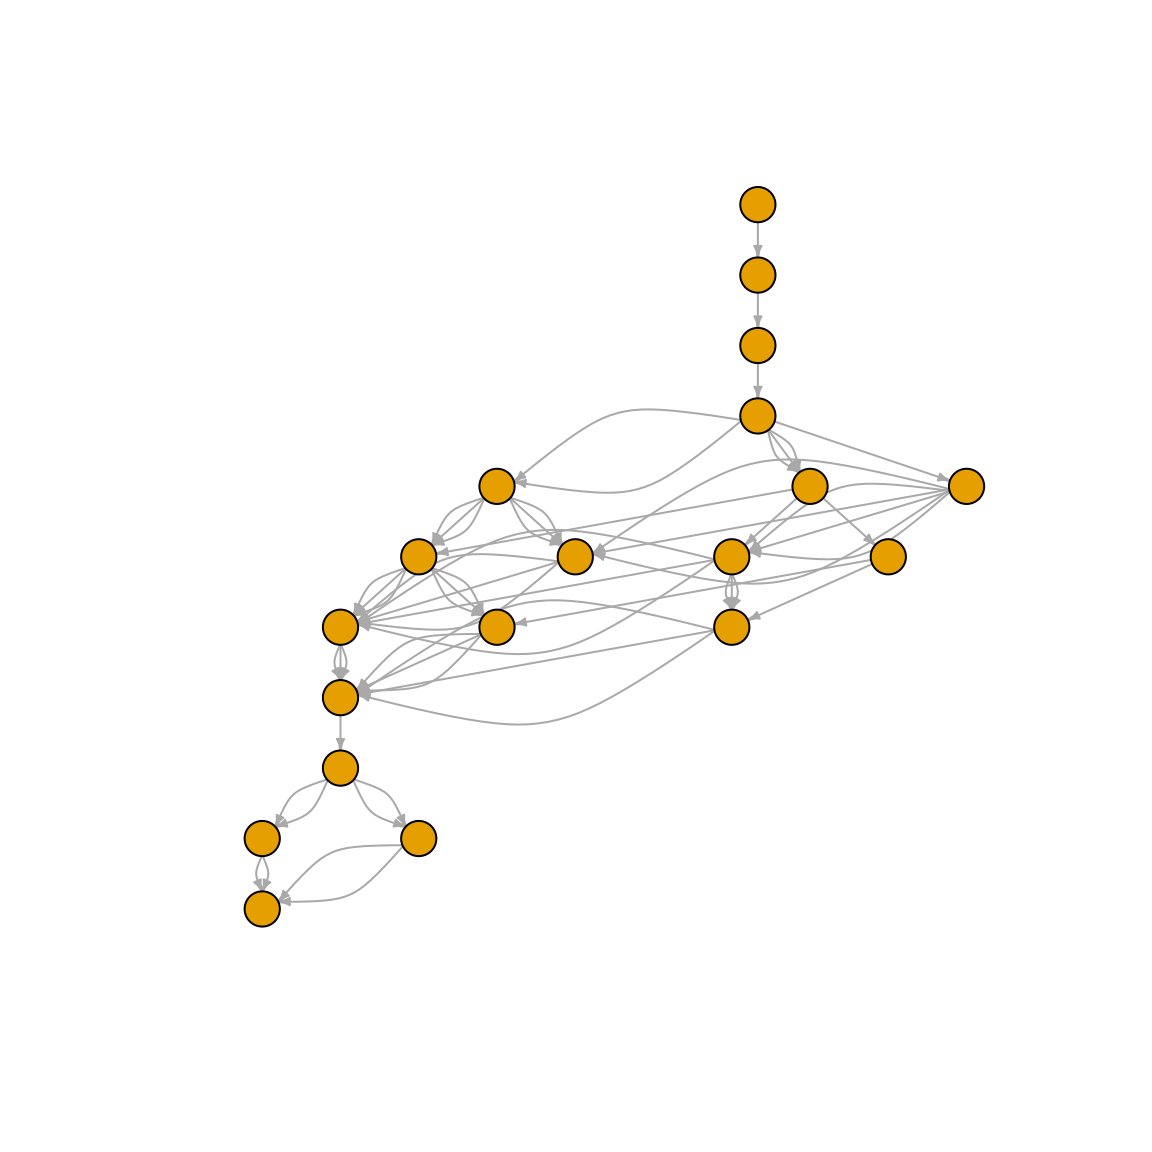
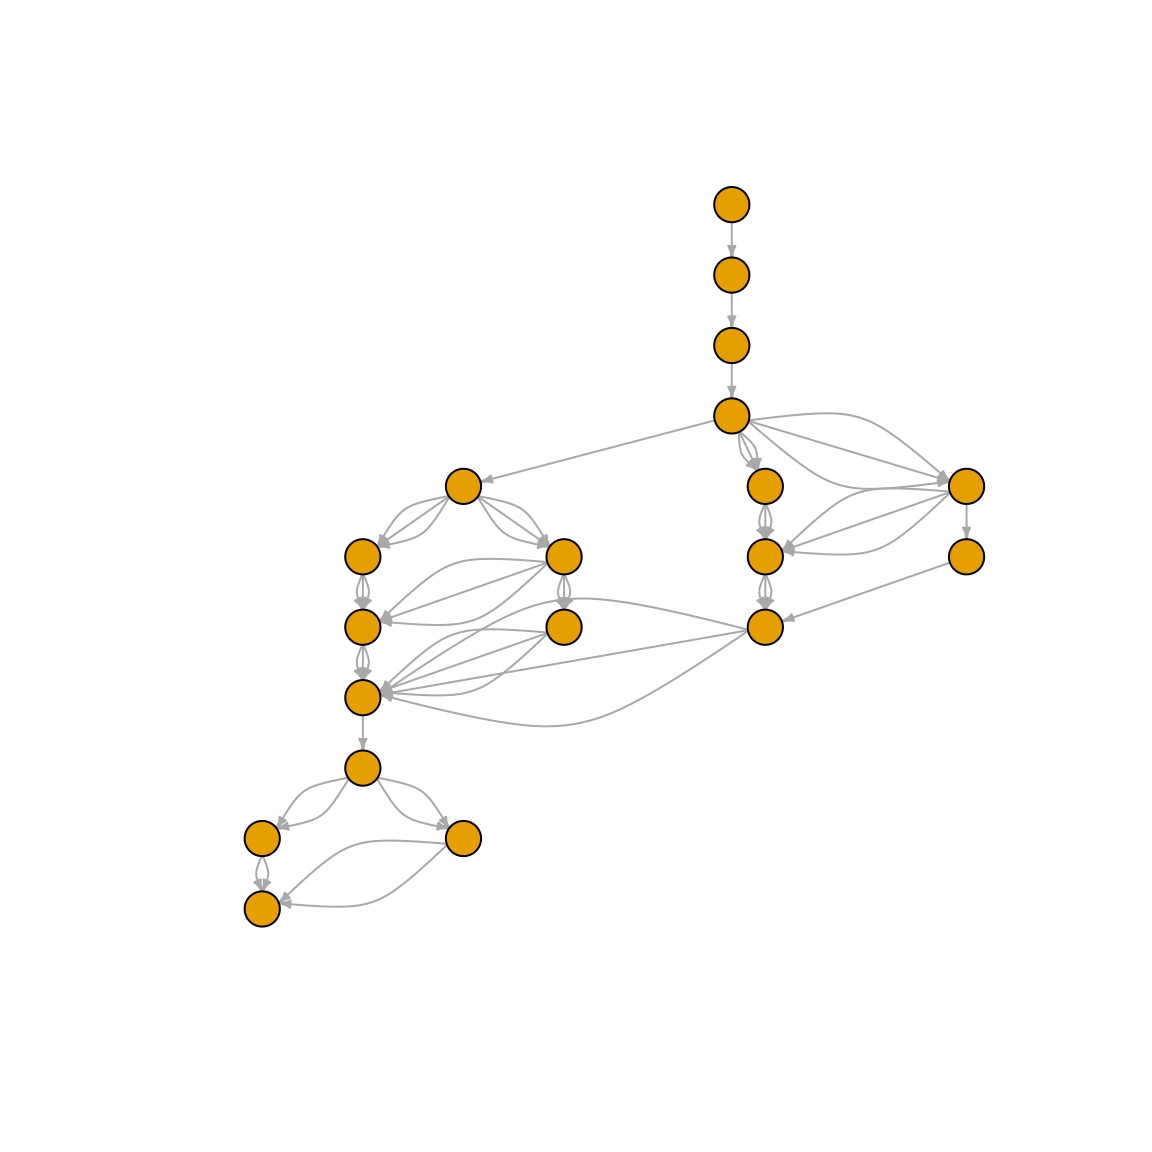
Deploying to gh-pages from @ glycoverse/glyenzy@83a3d7a9af07456d279eb256fe3d8c466bab1409 🚀

Changed region(s): [[0.25, 0.1562, 0.875, 0.7812], [0.25, 0.75, 0.2812, 0.8125], [0.4688, 0.375, 0.5, 0.4062]]

diff --git a/dev/articles/glyenzy.html b/dev/articles/glyenzy.html
@@ -169,9 +169,9 @@ biosynthetic path:</p>
 <div class="sourceCode" id="cb5"><pre class="downlit sourceCode r">
 <code class="sourceCode R"><span><span class="va">path</span> <span class="op">&lt;-</span> <span class="fu"><a href="../reference/trace_biosynthesis.html">trace_biosynthesis</a></span><span class="op">(</span><span class="va">glycan</span><span class="op">)</span></span>
 <span><span class="va">path</span></span>
-<span><span class="co">#&gt; IGRAPH ccdc17d DN-- 4 8 -- </span></span>
+<span><span class="co">#&gt; IGRAPH 98ac2a3 DN-- 4 8 -- </span></span>
 <span><span class="co">#&gt; + attr: name (v/c), enzyme (e/c), step (e/n)</span></span>
-<span><span class="co">#&gt; + edges from ccdc17d (vertex names):</span></span>
+<span><span class="co">#&gt; + edges from 98ac2a3 (vertex names):</span></span>
 <span><span class="co">#&gt; [1] GalNAc(a1-                       -&gt;Gal(b1-3)GalNAc(a1-                       </span></span>
 <span><span class="co">#&gt; [2] Gal(b1-3)GalNAc(a1-              -&gt;Gal(b1-3)[GlcNAc(b1-6)]GalNAc(a1-         </span></span>
 <span><span class="co">#&gt; [3] Gal(b1-3)GalNAc(a1-              -&gt;Gal(b1-3)[GlcNAc(b1-6)]GalNAc(a1-         </span></span>

diff --git a/dev/reference/glyenzy-package.html b/dev/reference/glyenzy-package.html
@@ -48,7 +48,8 @@ Simulates the biosynthetic process of glycosylation in silico, enabling computat
     <div class="section level2">
     <h2 id="author">Author<a class="anchor" aria-label="anchor" href="#author"></a></h2>
     <p><strong>Maintainer</strong>: Bin Fu <a href="mailto:[email redacted]">[email redacted]</a> (<a href="https://orcid.org/0000-0001-8567-2997" class="external-link">ORCID</a>)</p>
-    </div>
+<p>Authors:</p><ul><li><p>Bin Fu <a href="mailto:[email redacted]">[email redacted]</a> (<a href="https://orcid.org/0000-0001-8567-2997" class="external-link">ORCID</a>)</p></li>
+</ul></div>
 
   </main><aside class="col-md-3"><nav id="toc" aria-label="Table of contents"><h2>On this page</h2>
     </nav></aside></div>

diff --git a/dev/reference/glyenzy-package.md b/dev/reference/glyenzy-package.md
@@ -23,3 +23,8 @@ Useful links:
 
 **Maintainer**: Bin Fu <[email redacted]>
 ([ORCID](https://orcid.org/0000-0001-8567-2997))
+
+Authors:
+
+- Bin Fu <[email redacted]>
+  ([ORCID](https://orcid.org/0000-0001-8567-2997))

diff --git a/dev/articles/glyenzy.md b/dev/articles/glyenzy.md
@@ -135,9 +135,9 @@ reconstructs a plausible biosynthetic path:
 
 path <- trace_biosynthesis(glycan)
 path
-#> IGRAPH ccdc17d DN-- 4 8 -- 
+#> IGRAPH 98ac2a3 DN-- 4 8 -- 
 #> + attr: name (v/c), enzyme (e/c), step (e/n)
-#> + edges from ccdc17d (vertex names):
+#> + edges from 98ac2a3 (vertex names):
 #> [1] GalNAc(a1-                       ->Gal(b1-3)GalNAc(a1-                       
 #> [2] Gal(b1-3)GalNAc(a1-              ->Gal(b1-3)[GlcNAc(b1-6)]GalNAc(a1-         
 #> [3] Gal(b1-3)GalNAc(a1-              ->Gal(b1-3)[GlcNAc(b1-6)]GalNAc(a1-         